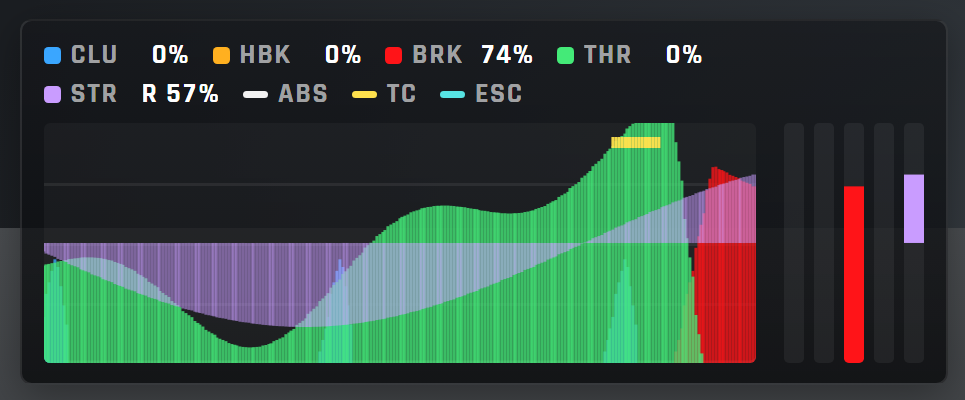
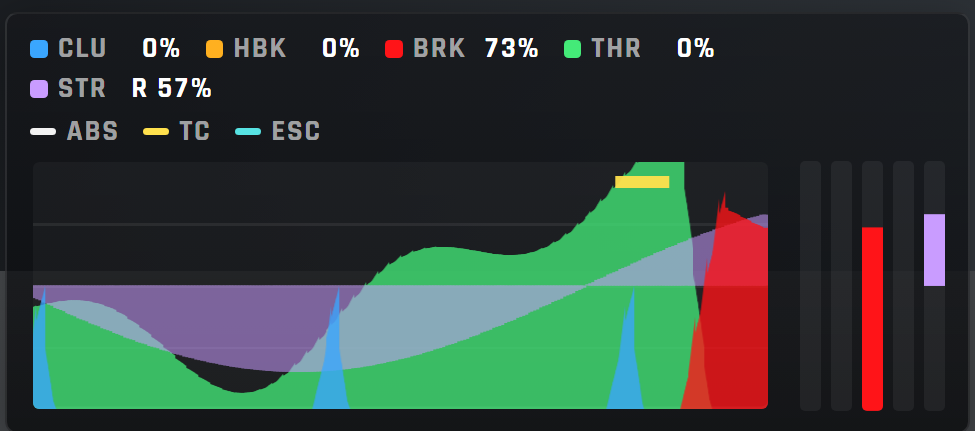
minor additions

diff --git a/pedalgraph/pedalgraph.js b/pedalgraph/pedalgraph.js
@@ -168,7 +168,11 @@ const PedalGraph = (function () {
         root: "ace-pedalgraph",
         dragging: "dragging",
         header: "pg-header",
+        /** The header's first line: the inputs' legend and the status text. */
+        row: "pg-row",
         legend: "pg-legend",
+        /** On the second legend line, the assist marks': a different kind of thing from the inputs. */
+        marks: "pg-marks",
         item: "pg-item",
         swatch: "pg-swatch",
         value: "pg-val",
@@ -186,6 +190,7 @@ const PedalGraph = (function () {
         /** On a legend item, strip or level bar whose channel is switched off. */
         off: "pg-off",
         /** On the root: what the view options hide, and the looks they choose. */
+        noLegend: "pg-nolegend",
         noLevels: "pg-nolevels",
         noReadouts: "pg-noreadouts",
         noGrid: "pg-nogrid",
@@ -278,6 +283,7 @@ const PedalGraph = (function () {
         window: "window",
         height: "height",
         weight: "weight",
+        legend: "legend",
         levels: "levels",
         readouts: "readouts",
         grid: "grid",
@@ -349,6 +355,7 @@ const PedalGraph = (function () {
             value: BACKGROUND_DARK,
             options: [BACKGROUND_DARK, BACKGROUND_LIGHT, BACKGROUND_NONE]
         },
+        { key: SETTING.legend, type: "toggle", label: "Legend", value: true, hint: "off leaves only the graph" },
         { key: SETTING.levels, type: "toggle", label: "Level bars", value: true },
         { key: SETTING.readouts, type: "toggle", label: "Readouts", value: true },
         { key: SETTING.grid, type: "toggle", label: "Grid lines", value: true },
@@ -373,7 +380,7 @@ const PedalGraph = (function () {
 
     /** The option keys that change what is drawn, and nothing else. */
     const VIEW_KEYS = TRACES.map(function (trace) { return trace.setting; })
-        .concat([SETTING.height, SETTING.weight, SETTING.levels, SETTING.readouts, SETTING.grid, SETTING.bg]);
+        .concat([SETTING.height, SETTING.weight, SETTING.legend, SETTING.levels, SETTING.readouts, SETTING.grid, SETTING.bg]);
 
     // ---- small helpers -----------------------------------------------------------
 
@@ -503,19 +510,24 @@ const PedalGraph = (function () {
 
     /** The widget's markup: legend, one strip per channel, a level bar per input. */
     const markup = function () {
-        let legend = "";
+        let inputs = "";
+        let marks = "";
         let tracks = "";
         let levels = "";
 
         TRACES.forEach(function (trace, index) {
             const traceAttr = traceAttrs(index);
             const isMark = trace.kind === KIND.mark;
-
-            legend += el("div", isMark ? CLASS.item + " " + CLASS.mark : CLASS.item, traceAttr)
+            const item = el("div", isMark ? CLASS.item + " " + CLASS.mark : CLASS.item, traceAttr)
                 + el("div", CLASS.swatch) + close("div")
                 + trace.label
                 + (isMark ? "" : el("div", CLASS.value) + ZERO_TEXT + close("div"))
                 + close("div");
+
+            // the marks get a legend line of their own: they are not inputs, and the line
+            // only shows while one of them is on (applyView)
+            if (isMark) { marks += item; } else { inputs += item; }
+
             tracks += stripMarkup(index);
 
             if (!isMark) {
@@ -528,8 +540,11 @@ const PedalGraph = (function () {
         }).join("");
 
         return el("div", CLASS.header)
-            + el("div", CLASS.legend) + legend + close("div")
+            + el("div", CLASS.row)
+            + el("div", CLASS.legend) + inputs + close("div")
             + el("div", CLASS.noData) + NO_DATA_TEXT + close("div")
+            + close("div")
+            + el("div", CLASS.legend + " " + CLASS.marks) + marks + close("div")
             + close("div")
             + el("div", CLASS.plot)
             + el("div", CLASS.graph) + grid + tracks + close("div")
@@ -564,6 +579,7 @@ const PedalGraph = (function () {
             levels: TRACES.map(function (trace, t) { return forTrace(root, CLASS.level, t, " > ." + CLASS.fill); }),
             vals: TRACES.map(function (trace, t) { return forTrace(root, CLASS.item, t, " ." + CLASS.value); }),
             noData: root.querySelector("." + CLASS.noData),
+            marksLegend: root.querySelector("." + CLASS.marks),
             graph: root.querySelector("." + CLASS.graph),
             aspect: 0,                  // graph height over bar width, in pixels; 0 until the graph has a size
             unsubscribeSettings: null,
@@ -633,6 +649,9 @@ const PedalGraph = (function () {
             state.lastPct[t] = "";
         });
 
+        // the marks' legend line exists only while a mark is on; the whole legend only while wanted
+        setClass(state.marksLegend, CLASS.off, !TRACES.some(function (trace, t) { return trace.kind === KIND.mark && state.shown[t]; }));
+        setClass(state.root, CLASS.noLegend, options[SETTING.legend] === false);
         state.levelsOn = options[SETTING.levels] !== false;
         state.readoutsOn = options[SETTING.readouts] !== false;
         setClass(state.root, CLASS.noLevels, !state.levelsOn);

diff --git a/tests/widget/harness.html b/tests/widget/harness.html
@@ -242,7 +242,7 @@ window.ModelCurrentCar = { has_focused_car: true, gas_percent: 0.5, brake_percen
         eq(keys.slice(0, 5).join(","), "layout,scale," + [S.window, S.height].join(",") + ",inputs", "Layout: the loader's scale spec, history and plot height");
         eq(keys.slice(5, 11).join(","), "showThrottle,showBrake,showHandbrake,showClutch,showSteering,marks", "one switch per input, throttle first");
         eq(keys.slice(11, 15).join(","), "markAbs,markTc,markEsc,look", "then the assist marks");
-        eq(keys.slice(15).join(","), [S.weight, S.bg, S.levels, S.readouts, S.grid, "stack", S.order, "demo", S.attract].join(","), "then the look, the draw order and the demo");
+        eq(keys.slice(15).join(","), [S.weight, S.bg, S.legend, S.levels, S.readouts, S.grid, "stack", S.order, "demo", S.attract].join(","), "then the look, the draw order and the demo");
         eq(Object.keys(settings.all("pedalgraph")).indexOf("layout"), -1, "sections carry no value");
         const sw = function (spec) { return spec.swatch ? spec.swatch.className + "/" + spec.swatch.attrs["data-trace"] : "-"; };
         eq(specs.filter(function (s) { return s.key === "showBrake"; }).map(sw)[0], "pg-option-swatch/2", "a channel switch carries its colour chip, keyed like the legend swatch");
@@ -327,6 +327,25 @@ window.ModelCurrentCar = { has_focused_car: true, gas_percent: 0.5, brake_percen
         ok(!has(root, "pg-nogrid"));
     });
 
+    t("the assist marks have a legend line of their own, shown only while one is on, and the whole legend can go", function () {
+        const marks = root.querySelector(".pg-legend.pg-marks");
+        ok(marks, "a second legend line for the marks");
+        eq(marks.querySelectorAll(".pg-item").length, 3, "the three marks live in it");
+        eq(root.querySelector(".pg-row .pg-legend").querySelectorAll(".pg-item").length, 5, "the inputs stay on the first line, beside the status");
+        ok(marks.classList.contains("pg-off"), "hidden while every mark is off, which is the default");
+        eq(getComputedStyle(marks).display, "none");
+        settings.set("pedalgraph", "markAbs", true);
+        ok(!marks.classList.contains("pg-off"), "one mark on: the line appears");
+        settings.set("pedalgraph", "markAbs", false);
+        ok(marks.classList.contains("pg-off"), "and goes again when it is off");
+        eq(settings.get("pedalgraph", S.legend), true, "the legend is on by default");
+        settings.set("pedalgraph", S.legend, false);
+        ok(root.classList.contains("pg-nolegend"), "legend off is a class on the root");
+        eq(getComputedStyle(root.querySelector(".pg-header")).display, "none", "and the whole header is gone: only the graph");
+        settings.set("pedalgraph", S.legend, true);
+        ok(!root.classList.contains("pg-nolegend"));
+    });
+
     t("background is one of three looks, two of them a class", function () {
         settings.set("pedalgraph", S.bg, "light");
         ok(has(root, "pg-bg-light") && !has(root, "pg-bg-none"), "light");
@@ -395,8 +414,10 @@ window.ModelCurrentCar = { has_focused_car: true, gas_percent: 0.5, brake_percen
         centredIs(levels[4], 12.5, 0.25, "so does the level bar");
         eq(vals[4].textContent, "L 50%", "readout");
         const bar = bars[4][0];
-        eq(getComputedStyle(bar).transformOrigin.split(" ")[1], (bar.offsetHeight / 2) + "px", "origin at the centre (stylesheet)");
-        eq(getComputedStyle(levels[4]).transformOrigin.split(" ")[1], (levels[4].offsetHeight / 2) + "px", "level bar origin at the centre");
+        // to a layout unit: the graph is snapped to whole pixels by its margins, so its
+        // height can carry a 1/64 px the integer offsetHeight does not (see the loader's snap test)
+        near(parseFloat(getComputedStyle(bar).transformOrigin.split(" ")[1]), bar.offsetHeight / 2, 1 / 32, "origin at the centre (stylesheet)");
+        near(parseFloat(getComputedStyle(levels[4]).transformOrigin.split(" ")[1]), levels[4].offsetHeight / 2, 1 / 32, "level bar origin at the centre");
         settings.set("pedalgraph", "showSteering", false);
         window.ModelCurrentCar.steering_percent = 0;
     });

diff --git a/pedalgraph/pedalgraph.css b/pedalgraph/pedalgraph.css
@@ -77,7 +77,13 @@
    as a bare .pg-off and comes later in the file, so it would win. */
 .ace-pedalgraph .pg-item.pg-off,
 .ace-pedalgraph .pg-track.pg-off,
-.ace-pedalgraph .pg-lvl.pg-off {
+.ace-pedalgraph .pg-lvl.pg-off,
+.ace-pedalgraph .pg-legend.pg-off {
+    display: none;
+}
+
+/* the legend option off: no header at all, only the graph */
+.ace-pedalgraph.pg-nolegend .pg-header {
     display: none;
 }
 
@@ -120,13 +126,19 @@ body.hide-hud .ace-pedalgraph {
 
 .ace-pedalgraph .pg-header {
     display: flex;
-    flex-direction: row;
-    justify-content: space-between;
-    align-items: flex-start;
+    flex-direction: column;
     font-size: 0.7em;
     font-weight: 600;
     letter-spacing: 0.06em;
     margin-bottom: 0.286em;
+}
+
+/* the first line: the inputs' legend, and the status text at the right */
+.ace-pedalgraph .pg-row {
+    display: flex;
+    flex-direction: row;
+    justify-content: space-between;
+    align-items: flex-start;
 }
 
 /* wraps to a second line when more channels are on than fit the width */
@@ -134,6 +146,11 @@ body.hide-hud .ace-pedalgraph {
     display: flex;
     flex-direction: row;
     flex-wrap: wrap;
+}
+
+/* the assist marks' own line, under the inputs: they are a different kind of thing */
+.ace-pedalgraph .pg-legend.pg-marks {
+    margin-top: 0.1em;
 }
 
 /* label dim, figure bright: the label is the item's own text, the figure is .pg-val */

diff --git a/tests/test_app.py b/tests/test_app.py
@@ -14,7 +14,7 @@ JS = os.path.join(ROOT, "pedalgraph", "pedalgraph.js")
 
 class Tests(AppTests):
     ROOT = ROOT
-    MIN_CASES = 28
+    MIN_CASES = 29
     HOT_PATH = ("const commitSample", "// ---- lifecycle")
 
 
@@ -47,8 +47,8 @@ class WidgetContractTests(unittest.TestCase):
     def test_every_view_option_is_a_class_in_the_stylesheet(self):
         with open(os.path.join(ROOT, "pedalgraph", "pedalgraph.css"), encoding="utf-8") as f:
             css = f.read()
-        for cls in ("pg-off", "pg-nolevels", "pg-noreadouts", "pg-nogrid", "pg-low", "pg-tall", "pg-faint", "pg-bold",
-                    "pg-bg-light", "pg-bg-none", "pg-mark"):
+        for cls in ("pg-off", "pg-nolegend", "pg-nolevels", "pg-noreadouts", "pg-nogrid", "pg-low", "pg-tall", "pg-faint", "pg-bold",
+                    "pg-bg-light", "pg-bg-none", "pg-mark", "pg-marks", "pg-row"):
             self.assertIn("." + cls, css, cls)
         # every length inside the panel is em, so one font-size on the root scales it all
         inside = css[css.index(".ace-pedalgraph .pg-header"):]

diff --git a/README.md b/README.md
@@ -67,8 +67,8 @@ through the HUD reload and a restart. Click a section header to fold it.
 |---|---|
 | **Layout** | Panel scale, how many seconds of driving the graph shows (3, 5 or 10), and a low, normal or tall plot. |
 | **Inputs** | Which of throttle, brake, clutch, handbrake and steering are drawn. A hidden one keeps recording, so it has its history when you turn it back on. |
-| **Assist marks** | ABS, TC and ESC: a tick along the top wherever the electronics stepped in. Off by default. |
-| **Look** | Faint, normal or bold traces; a dark, light or no background; level bars, readouts and grid lines on or off. |
+| **Assist marks** | ABS, TC and ESC: a tick along the top wherever the electronics stepped in, with a legend line of their own. Off by default. |
+| **Look** | Faint, normal or bold traces; a dark, light or no background; the legend, level bars, readouts and grid lines on or off. Legend off leaves only the graph. |
 | **Draw order** | Drag to choose which input paints over which. |
 | **Demo** | Attract mode: scripted inputs, for recording without driving. |
 
@@ -160,5 +160,5 @@ Cohtml-specific, so a change still needs one launch and a look at the log.
 ---
 
 <div align="center">
-<sub>Pedal Graph 0.8.1 · needs ACE UI App Loader 0.23.0 or newer</sub>
+<sub>Pedal Graph 0.8.2 · needs ACE UI App Loader 0.23.0 or newer</sub>
 </div>
